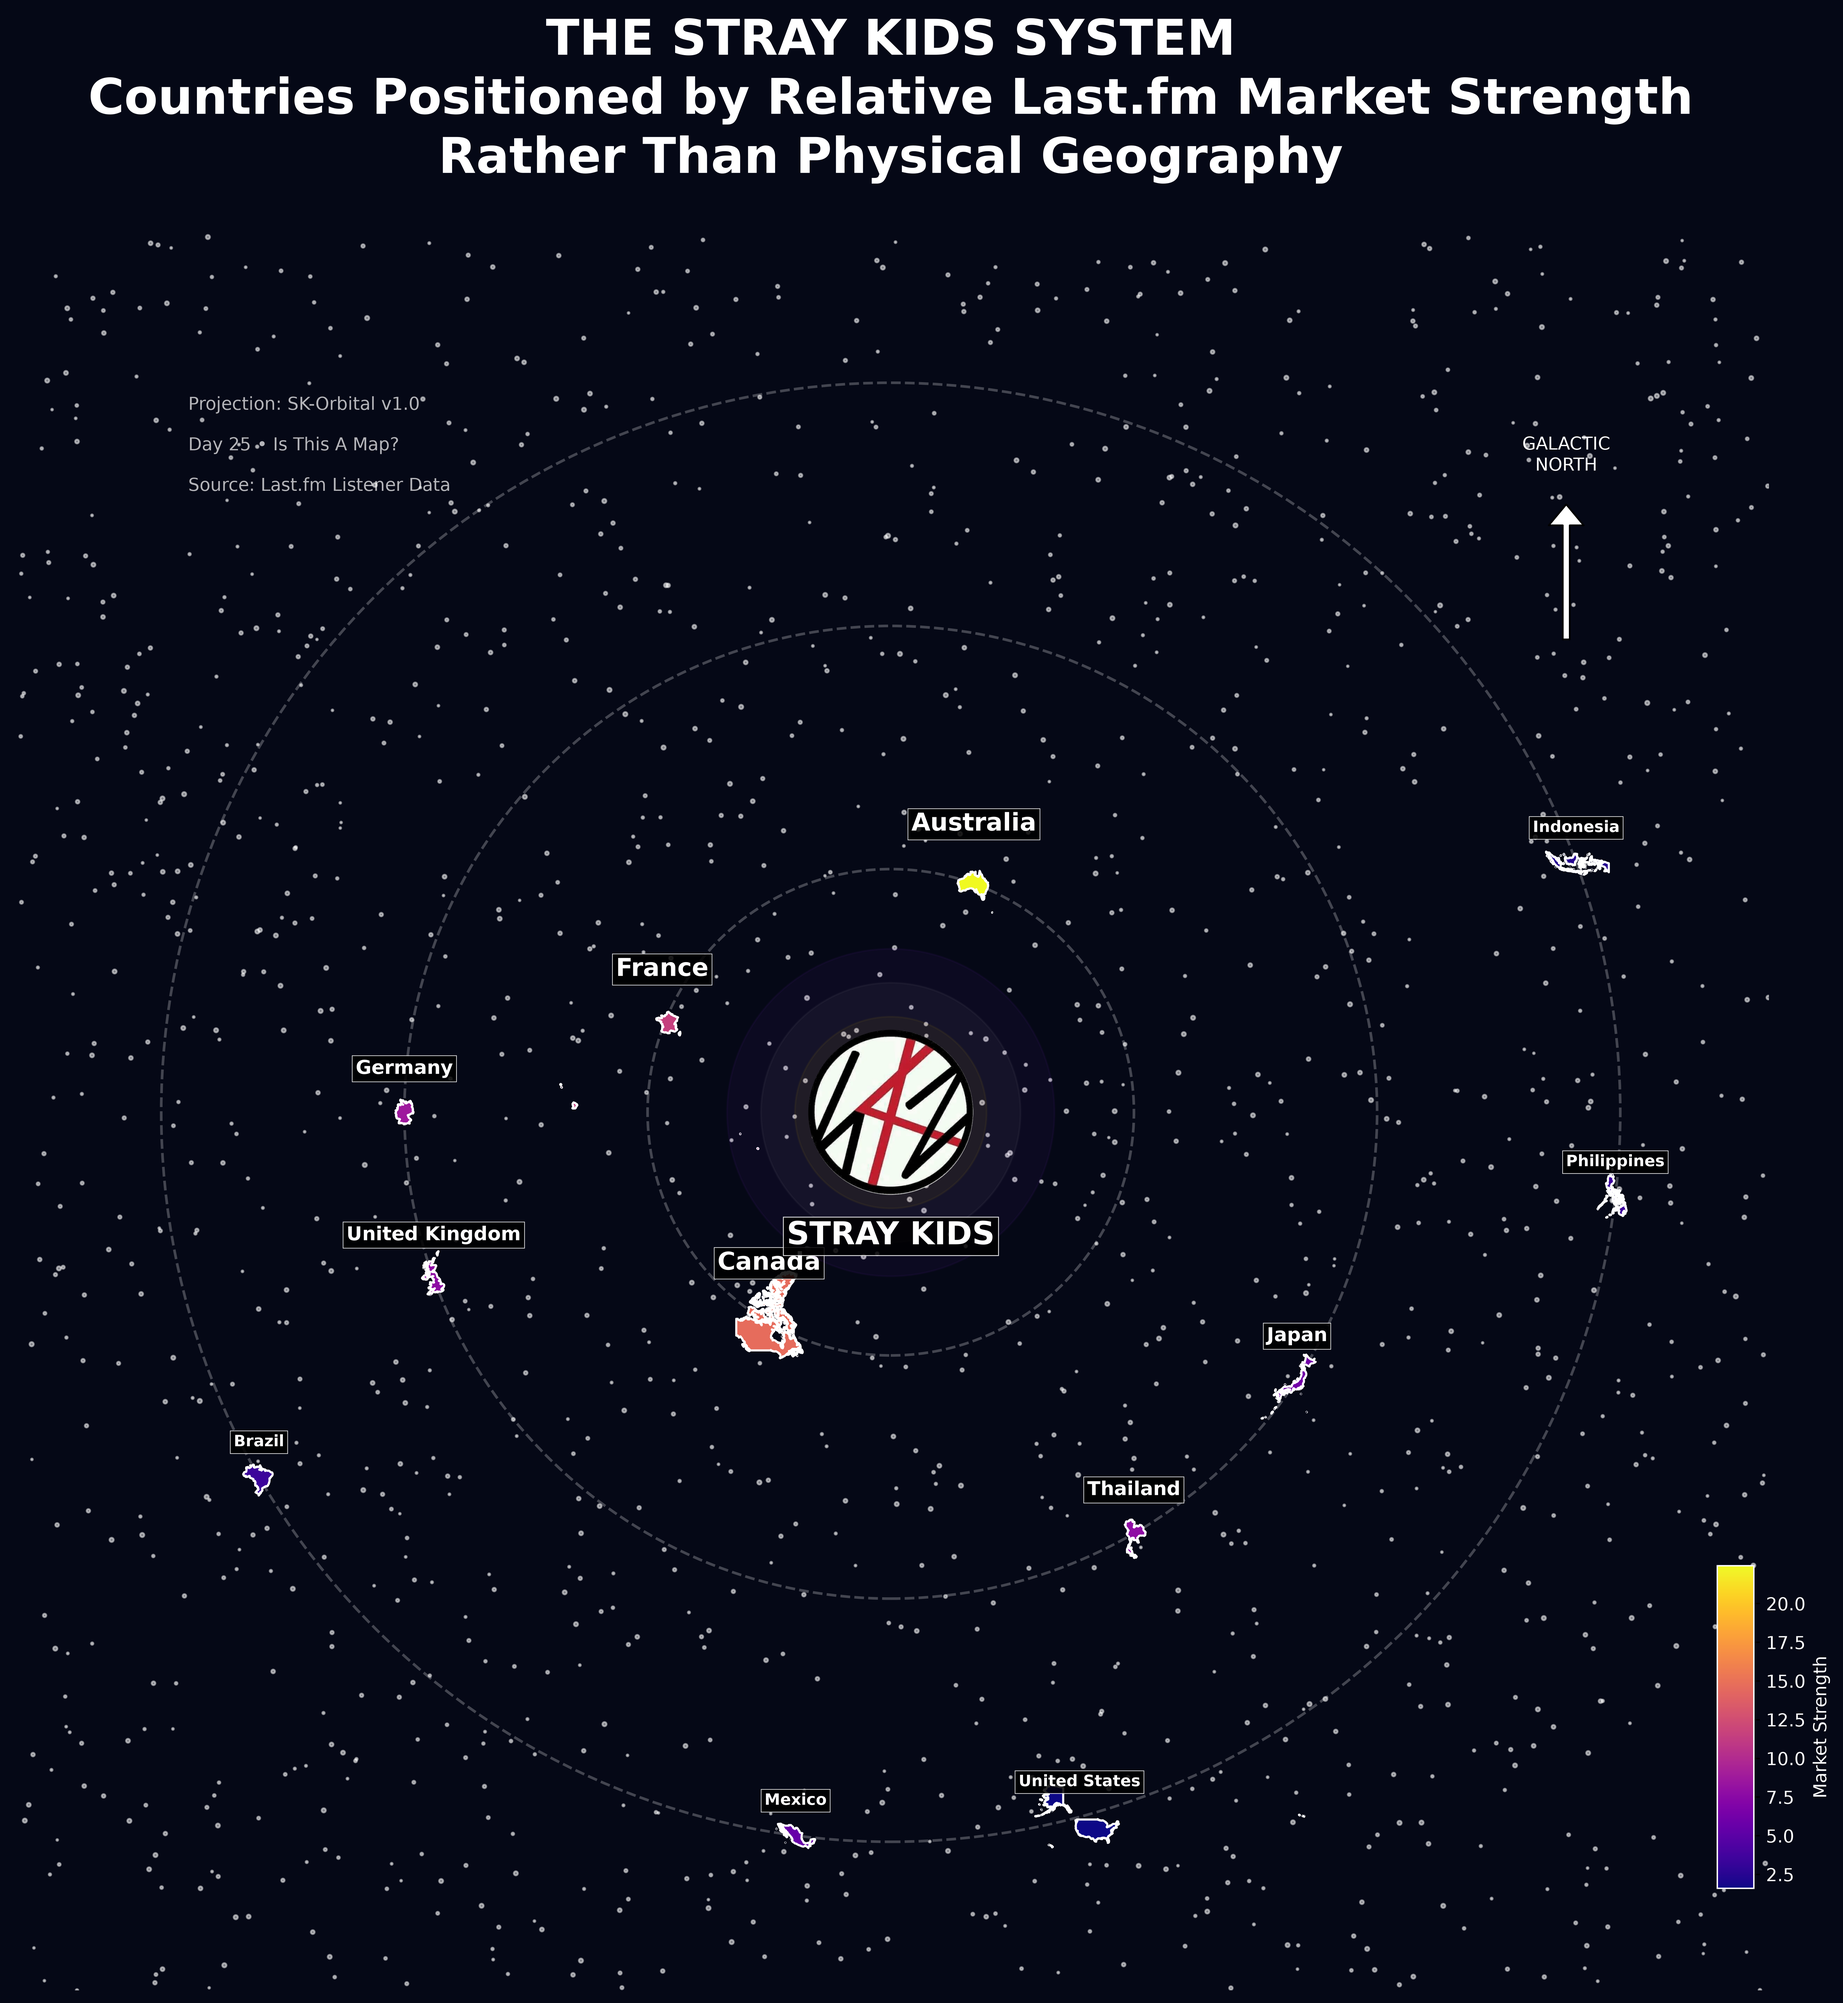
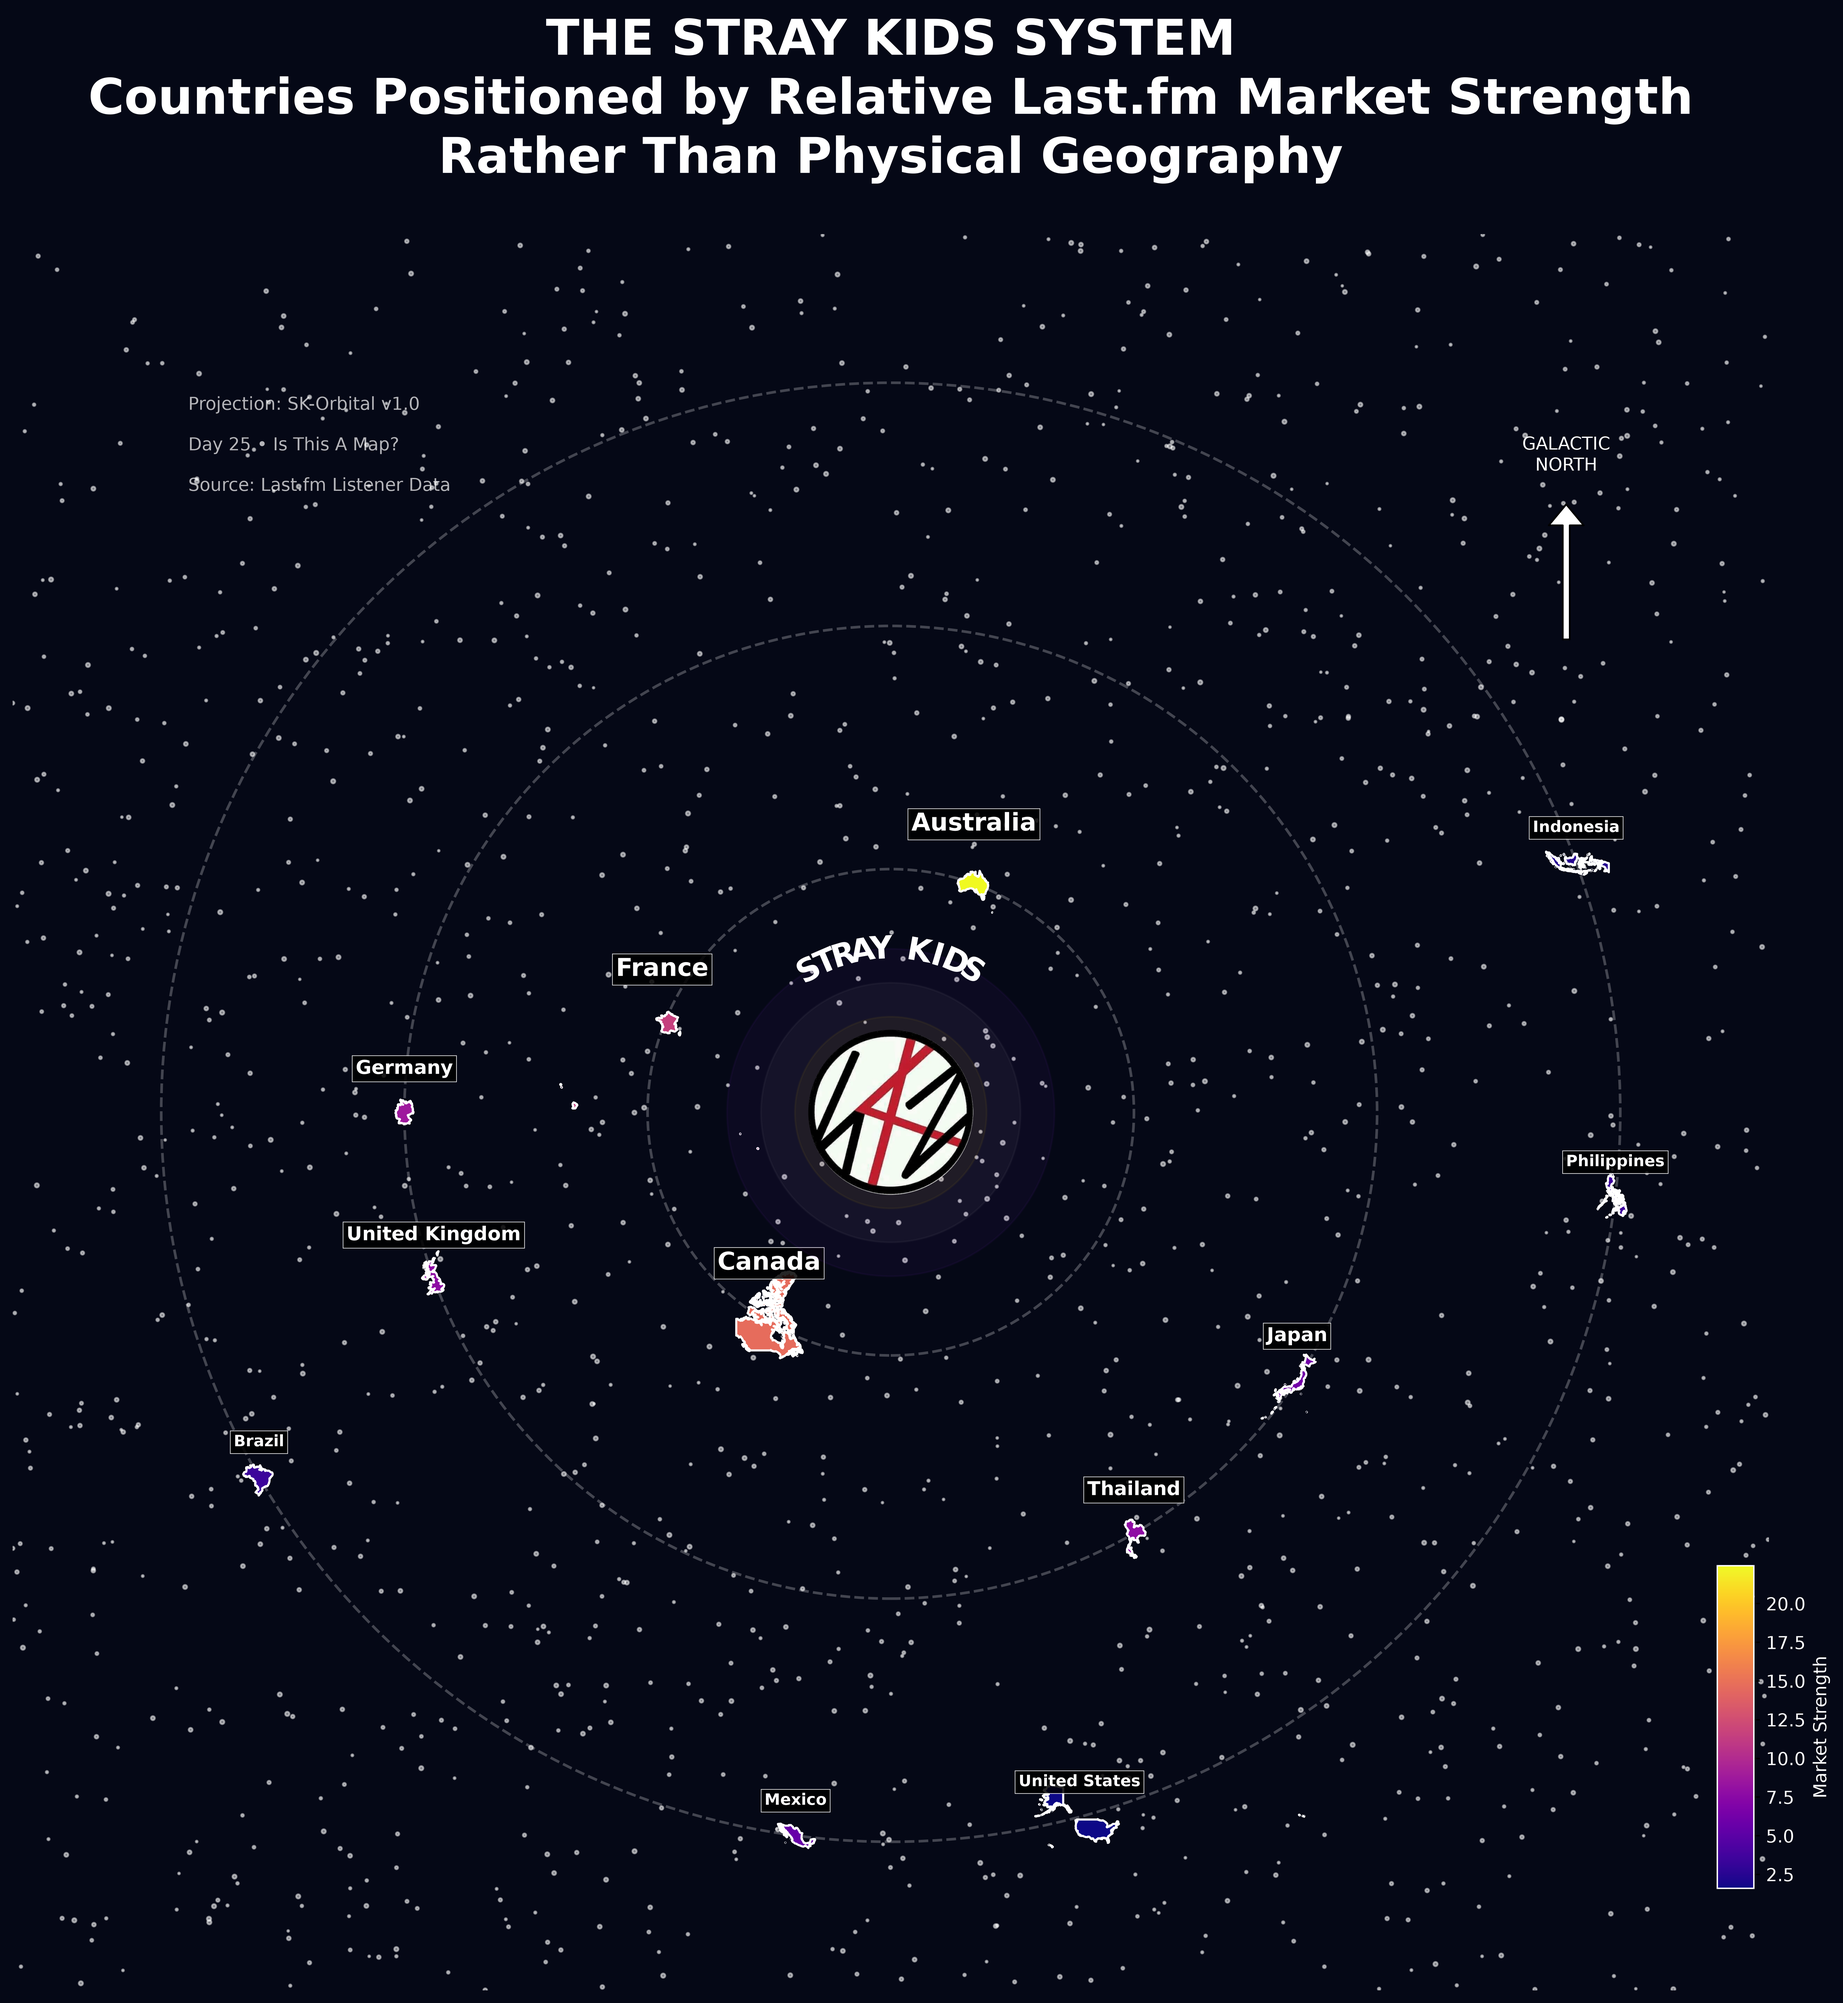
tweaks to 05_similarity_space

Changed region(s): [[0.4044, 0.5917, 0.56, 0.654], [0.4356, 0.4671, 0.5289, 0.4983]]

diff --git a/scripts/05_similarity_space.py b/scripts/05_similarity_space.py
@@ -366,7 +366,7 @@ for radius in [
 # STAR FIELD
 # --------------------------------------------------
 
-np.random.seed(42)
+np.random.seed(62)
 
 n_stars = 1500
 
@@ -557,24 +557,33 @@ ax.add_artist(ab)
 
 # Label
 
-ax.text(
-    0,
-    -8_000_000,
-    "STRAY KIDS",
-    fontsize=18,
-    fontweight="bold",
-    color="white",
-    ha="center",
-    va="top",
-    bbox=dict(
-        facecolor="black",
-        edgecolor="white",
-        linewidth=0.5,
-        alpha=0.85,
-        pad=2
-    ),
-    zorder=101
+text = "STRAY KIDS"
+
+radius = 12_000_000
+
+angles = np.linspace(
+    np.deg2rad(120),
+    np.deg2rad(60),
+    len(text)
 )
+
+for char, angle in zip(text, angles):
+
+    x = radius * np.cos(angle)
+    y = radius * np.sin(angle)
+
+    ax.text(
+        x,
+        y,
+        char,
+        color="white",
+        fontsize=18,
+        fontweight="bold",
+        ha="center",
+        va="center",
+        rotation=np.degrees(angle) - 90,
+        zorder=101
+    )
 
 print("Logo shape:", logo.shape)
 
